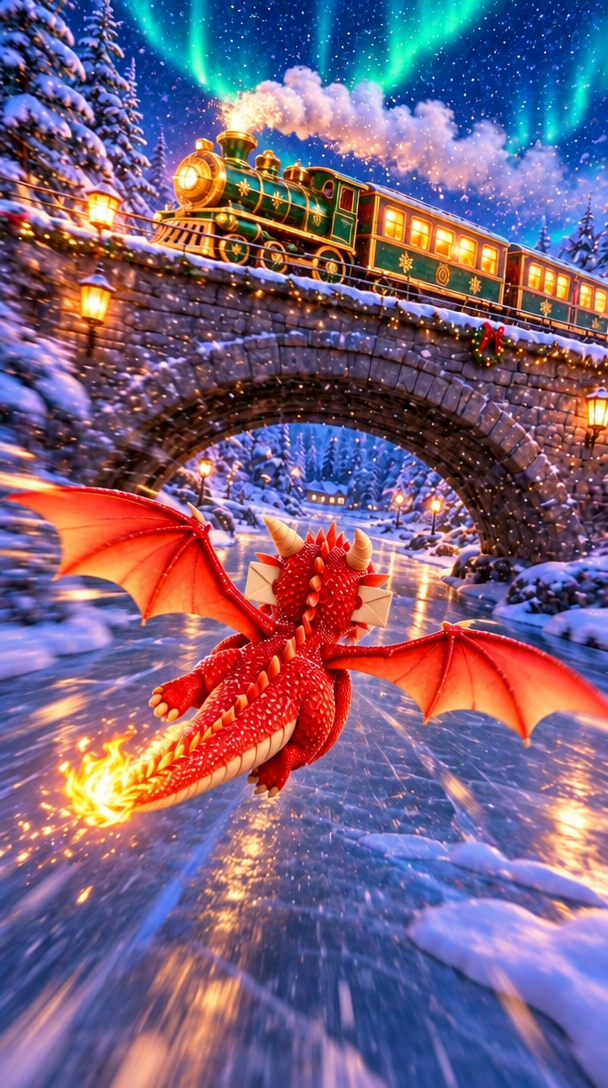
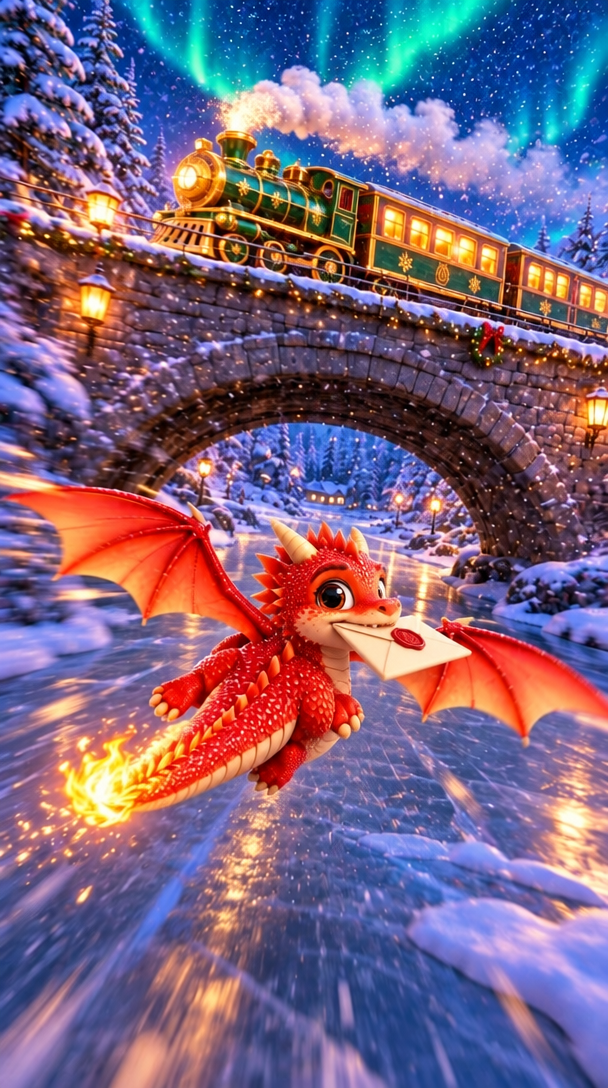
Полёт Огонька: голова вполоборота, конверт в зубах
Claude-Session: https://claude.ai/code/session_01TXwNN2je3RbbmpXYz6m2NX

diff --git a/polet/rot.py b/polet/rot.py
@@ -4,8 +4,10 @@ RAZ=("The envelope: exactly ONE closed cream envelope with a red wax seal, a lan
      "(the same size as on the reference sheet, image 2). Not bigger, not smaller, never two envelopes.")
 def go(k):
     p=("Edit image 1: keep the composition, camera angle, background, lighting, motion blur and the dragon's body and wings the same, "
-       "but now the dragon carries the envelope IN HIS MOUTH, gripped in his teeth, held horizontally like a delivery bird; because we see him from behind, "
-       "the left and right ends of the envelope clearly stick out on BOTH sides of his head. His front paws are empty and tucked under his chest. "+RAZ+" No text.")
+       "but the dragon TURNS HIS HEAD to the side, looking over his shoulder in THREE-QUARTER PROFILE, so his snout, mouth and one cute eye are clearly visible; "
+       "he carries the envelope IN HIS MOUTH: one short edge of the envelope is gripped between his front teeth and the envelope sticks out FORWARD-SIDEWAYS in front of his snout, "
+       "clearly OUTSIDE his head, like a puppy carrying a letter. It must be obvious that the envelope is in his mouth, not behind or through his head. "
+       "His front paws are empty and tucked under his chest. "+RAZ+" No text.")
     r=fal_client.subscribe("openai/gpt-image-2.6/flare/edit",arguments={"prompt":p,
        "image_urls":[fal_client.upload_file(f"kadry/v1/{k}.png"),fal_client.upload_file("razmery.png")],"image_size":"portrait_16_9","quality":"medium","num_images":1,"output_format":"png"})
     urllib.request.urlretrieve(r["images"][0]["url"],f"kadry/rot_{k}.png"); return k
